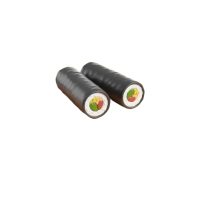
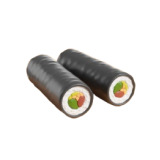
[#72] fix: apply menu list api and bg colors, new images

Changed region(s): [[0.1562, 0.2812, 0.875, 0.75], [0.5312, 0.3438, 0.5625, 0.375]]

diff --git a/src/components/roulette/iconRoulette.tsx b/src/components/roulette/iconRoulette.tsx
@@ -4,59 +4,43 @@ import Icons from '@/components/common/icons/icons';
 import React, { useMemo } from 'react';
 // eslint-disable-next-line
 import _ from 'lodash';
+import shuffleArray from '@/utils/shuffleArray';
 
 export default function IconRoulette({ componentKey }: { componentKey: number }) {
-  function getBgColorClass(index: number) {
-    const colorClasses = [
-      'bg-roulette_item_bg1',
-      'bg-roulette_item_bg2',
-      'bg-roulette_item_bg3',
-      'bg-roulette_item_bg4',
-    ];
-    return colorClasses[index % 4];
-  }
-  function shuffleArray(array: string[]) {
-    const newArray = [...array];
-    for (let i = newArray.length - 1; i > 0; i -= 1) {
-      const j = Math.floor(Math.random() * (i + 1));
-      [newArray[i], newArray[j]] = [newArray[j], newArray[i]];
-    }
-    return newArray;
-  }
-
   const menuItems = [
-    'chicken',
-    'cake',
-    'frenchFries',
-    'hamburger',
-    'hotdog',
-    'pizza',
-    'kebab',
-    'noodle',
-    'sushi',
-    'bibimbab',
-    'corndog',
-    'jjigae',
-    'kimbab',
-    'pudding',
-    'ramen',
-    'stick',
-    'tteokguk',
-    'yackgwa',
+    { iconName: 'chicken', bgColor: 'bg-bg_chicken' },
+    { iconName: 'cake', bgColor: 'bg-bg_cake' },
+    { iconName: 'frenchFries', bgColor: 'bg-bg_frenchFries' },
+    { iconName: 'hamburger', bgColor: 'bg-bg_hamburger' },
+    { iconName: 'hotdog', bgColor: 'bg-bg_hotdog' },
+    { iconName: 'pizza', bgColor: 'bg-bg_pizza' },
+    { iconName: 'kebab', bgColor: 'bg-bg_kebab' },
+    { iconName: 'noodle', bgColor: 'bg-bg_noodle' },
+    { iconName: 'sushi', bgColor: 'bg-bg_sushi' },
+    { iconName: 'bibimbab', bgColor: 'bg-bg_bibimbab' },
+    { iconName: 'corndog', bgColor: 'bg-bg_corndog' },
+    { iconName: 'jjigae', bgColor: 'bg-bg_jjigae' },
+    { iconName: 'kimbab', bgColor: 'bg-bg_kimbab' },
+    { iconName: 'pudding', bgColor: 'bg-bg_pudding' },
+    { iconName: 'ramen', bgColor: 'bg-bg_ramen' },
+    { iconName: 'stick', bgColor: 'bg-bg_stick' },
+    { iconName: 'tteokguk', bgColor: 'bg-bg_tteokguk' },
+    { iconName: 'yackgwa', bgColor: 'bg-bg_yackgwa' },
   ];
 
-  const shuffledMenuItems = useMemo(() => shuffleArray(menuItems), []);
+  const shuffledMenuItems = useMemo(
+    () => shuffleArray(menuItems),
+    // eslint-disable-next-line
+    [],
+  );
 
   return (
     <div
       className={`mb-5 flex w-auto ${componentKey % 2 === 0 ? 'animate-slide' : 'animate-slide_reverse'}`}
     >
       {shuffledMenuItems.map((item, index) => (
-        <div
-          key={item + index.toString()}
-          className={`mr-4 h-20 w-20 rounded-3xl ${getBgColorClass(index)}`}
-        >
-          <Icons.ImageIcon name={`${item}`} width={80} height={80} />
+        <div key={item + index.toString()} className={`mr-4 h-20 w-20 rounded-3xl ${item.bgColor}`}>
+          <Icons.ImageIcon name={`${item.iconName}`} width={80} height={80} />
         </div>
       ))}
       ,

diff --git a/src/app/stack/roulette/page.tsx b/src/app/stack/roulette/page.tsx
@@ -1,63 +1,19 @@
-'use client';
-
-import { useState } from 'react';
-import IconRoulette from '@/components/roulette/iconRoulette';
-import Button from '@/components/common/button/button';
-import menuList from '@/components/roulette/menuList';
-// eslint-disable-next-line
-import _ from 'lodash';
+import MenuRoulette from '@/components/roulette/menuRoulette';
 import StackHeader from '@/components/common/stackHeader/stackHeader';
+import { getRestaurants } from '@/lib/actions/attendance';
 
-export default function RoulettePage() {
-  const [isSpinning, setIsSpinning] = useState(false);
-  const [selectedItem, setSelectedItem] = useState('');
-
-  const handleSpinRoulette = () => {
-    setIsSpinning(true);
-
-    const randomIndex = Math.floor(Math.random() * menuList.length);
-    setSelectedItem(menuList[randomIndex]);
-    [menuList[0], menuList[randomIndex]] = [menuList[randomIndex], menuList[0]];
-
-    setTimeout(() => {
-      setIsSpinning(false);
-    }, 3000);
-  };
-
+export default async function RoulettePage() {
+  const data = await getRestaurants();
   return (
     <>
-      <div className="absolute -z-10 h-72 w-full bg-gradient-to-b from-roulette_bg to-white" />
-      <div className="absolute -z-20 h-full w-full bg-white" />
+      <div className="absolute -z-10 h-full w-full bg-gradient-to-b from-roulette_bg to-white" />
       <main className="safe-area-top container flex h-full w-full flex-col items-center overflow-x-hidden overflow-y-scroll bg-transparent">
         <StackHeader bgClass="bg-transparent" />
         <div className="f28 pt-[4.375rem] font-bold text-text_primary">점심 뭐 먹을까?</div>
         <div className=" f16 p-1 font-medium text-text_secondary">
           세종대 주변 58개의 맛집중에서 골랐어요
         </div>
-        <div className="f28 mb-14 mt-16 flex h-20 w-72 flex-shrink-0 items-center justify-center overflow-hidden rounded-2xl bg-app_bg font-bold text-text_primary">
-          <div className={`${isSpinning ? 'animate-slideIn' : ''} transition-all duration-1000`}>
-            {isSpinning
-              ? menuList.map((option, index) => (
-                  <div key={option + index.toString()} className="h-20 text-center">
-                    {option}
-                  </div>
-                ))
-              : selectedItem}
-          </div>
-        </div>
-        {_.times(3, (index) => (
-          <IconRoulette key={index} componentKey={index} />
-        ))}
-        <div className="mb-8 flex h-full w-full items-end px-5">
-          <Button
-            type="button"
-            size="full"
-            label="룰렛 돌리기"
-            variant={isSpinning ? 'disabled' : 'primary'}
-            disabled={isSpinning}
-            onClick={handleSpinRoulette}
-          />
-        </div>
+        <MenuRoulette menus={data.restaurants} />
       </main>
     </>
   );

diff --git a/src/components/roulette/menuRoulette.tsx b/src/components/roulette/menuRoulette.tsx
@@ -1,0 +1,60 @@
+'use client';
+
+import { Restaurant } from '@/lib/definitions';
+import { useState } from 'react';
+import shuffleArray from '@/utils/shuffleArray';
+import IconRoulette from './iconRoulette';
+import Button from '../common/button/button';
+// eslint-disable-next-line
+import _ from 'lodash';
+
+export default function MenuRoulette({ menus }: { menus: Restaurant[] }) {
+  const [isSpinning, setIsSpinning] = useState(false);
+  const [selectedItem, setSelectedItem] = useState('');
+  const [menuList, setMenuList] = useState(shuffleArray(menus).slice(0, 61));
+
+  const handleSpinRoulette = () => {
+    setIsSpinning(true);
+
+    const randomIndex = Math.floor(Math.random() * menuList.length);
+    setSelectedItem(menuList[randomIndex].name);
+    const newMenuList = [...menuList];
+    [newMenuList[0], newMenuList[randomIndex]] = [newMenuList[randomIndex], newMenuList[0]];
+    setMenuList(newMenuList);
+
+    setTimeout(() => {
+      setIsSpinning(false);
+    }, 3000);
+  };
+
+  return (
+    <>
+      <div className="f28 mb-14 mt-16 flex h-20 w-72 flex-shrink-0 items-center justify-center overflow-hidden rounded-2xl bg-app_bg font-bold text-text_primary">
+        <div
+          className={`${isSpinning ? 'animate-slideIn' : ''} text-center transition-all duration-1000`}
+        >
+          {isSpinning
+            ? menuList.map((option, index) => (
+                <div key={option + index.toString()} className="h-20 text-center">
+                  {option.name}
+                </div>
+              ))
+            : selectedItem}
+        </div>
+      </div>
+      {_.times(3, (index) => (
+        <IconRoulette key={index} componentKey={index} />
+      ))}
+      <div className="mb-8 flex h-full w-full items-end px-5">
+        <Button
+          type="button"
+          size="full"
+          label="룰렛 돌리기"
+          variant={isSpinning ? 'disabled' : 'primary'}
+          disabled={isSpinning}
+          onClick={handleSpinRoulette}
+        />
+      </div>
+    </>
+  );
+}

diff --git a/tailwind.config.ts b/tailwind.config.ts
@@ -47,11 +47,25 @@ const config: Config = {
         tag_orange_bg: '#FCDDC7',
         tag_orange_text: '#8F3415',
         timeline_bg: '#DFE4E8',
-        roulette_bg: '#77C1EA',
-        roulette_item_bg1: '#EBFFE2',
-        roulette_item_bg2: '#EAF2FF',
-        roulette_item_bg3: '#FFFDD8',
-        roulette_item_bg4: '#FFE7F2',
+        roulette_bg: 'rgba(150, 201, 255, 0.5)',
+        bg_chicken: '#DEB292',
+        bg_cake: '#DC90A4',
+        bg_frenchFries: '#DCBEC5',
+        bg_hamburger: '#F4A374',
+        bg_hotdog: '#FFA868',
+        bg_pizza: '#FFBC8E',
+        bg_kebab: '#DB9849',
+        bg_noodle: '#ECBF6A',
+        bg_sushi: '#FF7E76',
+        bg_bibimbab: '#B7CA93',
+        bg_corndog: '#C4B07E',
+        bg_jjigae: '#C15B5B',
+        bg_kimbab: '#959595',
+        bg_pudding: '#C9C15B',
+        bg_ramen: '#E9C690',
+        bg_stick: '#E2B29D',
+        bg_tteokguk: '#F5E5A0',
+        bg_yackgwa: '#FFE5C4',
       },
       keyframes: {
         slide: {

diff --git a/src/lib/actions/attendance.ts b/src/lib/actions/attendance.ts
@@ -1,7 +1,7 @@
 'use server';
 
 import { cookies } from 'next/headers';
-import { CourseAttendance } from '@/lib/definitions';
+import { CourseAttendance, Restaurants } from '@/lib/definitions';
 import fetchExtended from '@/utils/fetchExtended';
 import { revalidateTag } from 'next/cache';
 
@@ -51,4 +51,14 @@ export async function updateCourseAttendance(): Promise<void> {
       throw new Error('출석 업데이트에 실패했습니다. 다시 시도해주세요.');
     });
   revalidateTag('courseAttendance');
+}
+
+export async function getRestaurants(): Promise<Restaurants> {
+  const data = await fetchExtended<Restaurants>('/v1/restaurant')
+    .then((response) => response.body)
+    .catch(() => {
+      throw new Error('식당 데이터 조회에 실패했습니다. 다시 시도해주세요.');
+    });
+
+  return data;
 }

diff --git a/src/utils/shuffleArray.ts b/src/utils/shuffleArray.ts
@@ -1,0 +1,8 @@
+export default function shuffleArray(array: any[]) {
+  const newArray = [...array];
+  for (let i = newArray.length - 1; i > 0; i -= 1) {
+    const j = Math.floor(Math.random() * (i + 1));
+    [newArray[i], newArray[j]] = [newArray[j], newArray[i]];
+  }
+  return newArray;
+}

diff --git a/src/lib/definitions.ts b/src/lib/definitions.ts
@@ -121,3 +121,9 @@ export type UserInfo = {
   updatedAt: string;
   deletedAt: string | null;
 };
+export type Restaurants = {
+  restaurants: Restaurant[];
+};
+export type Restaurant = {
+  name: string;
+};
